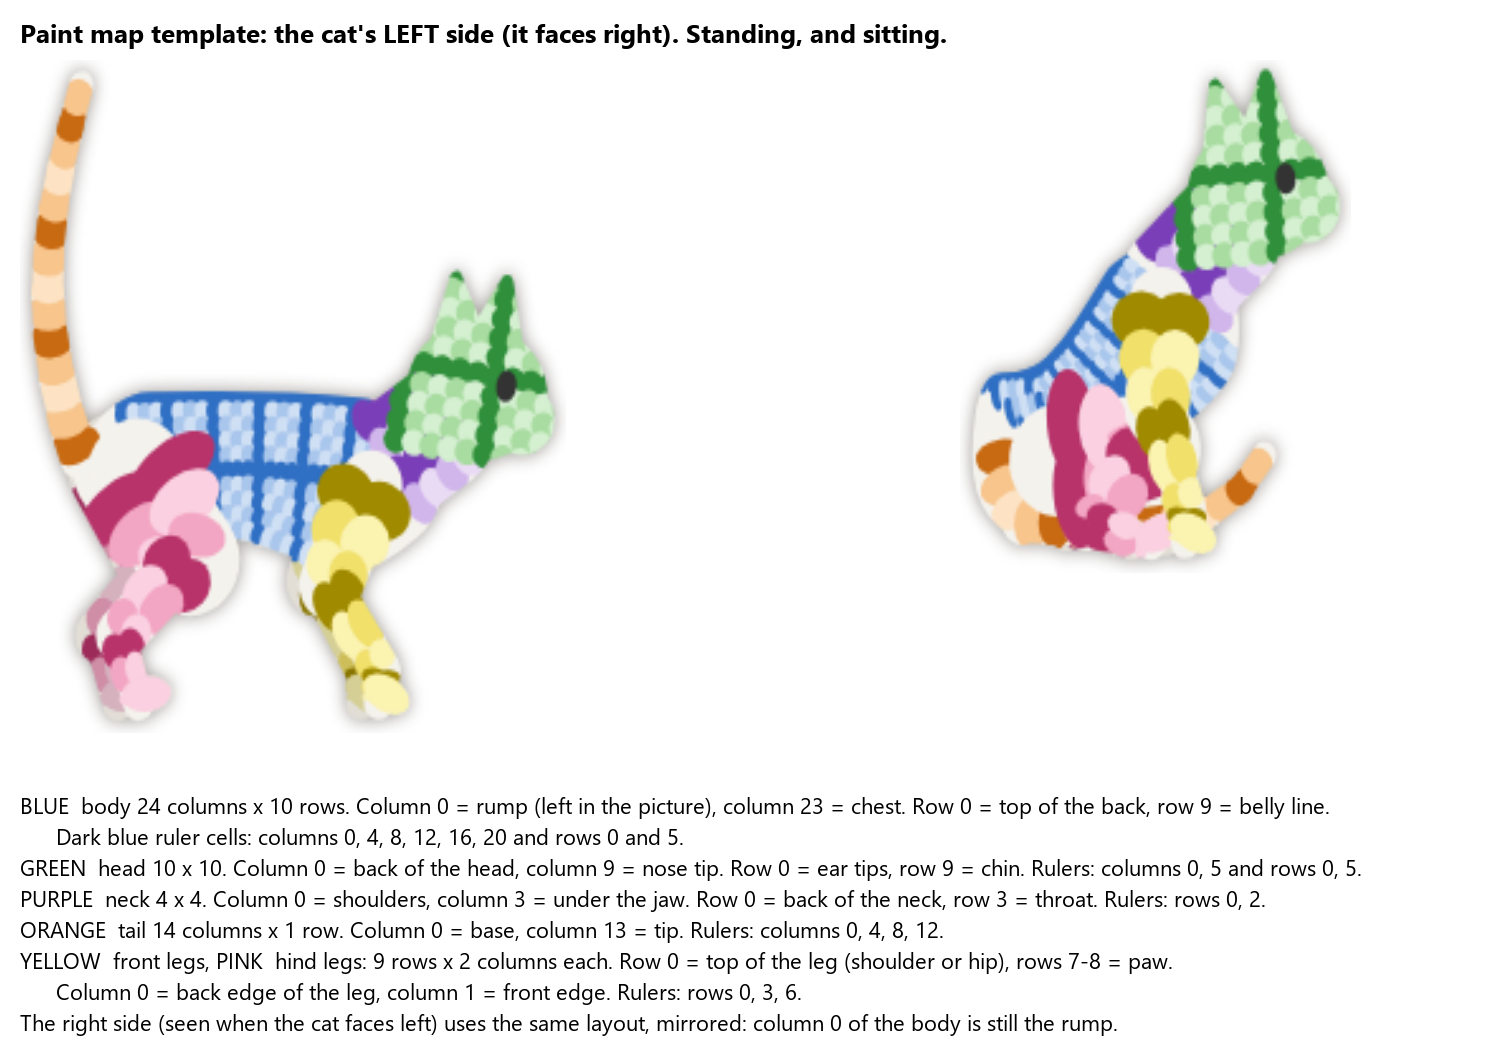
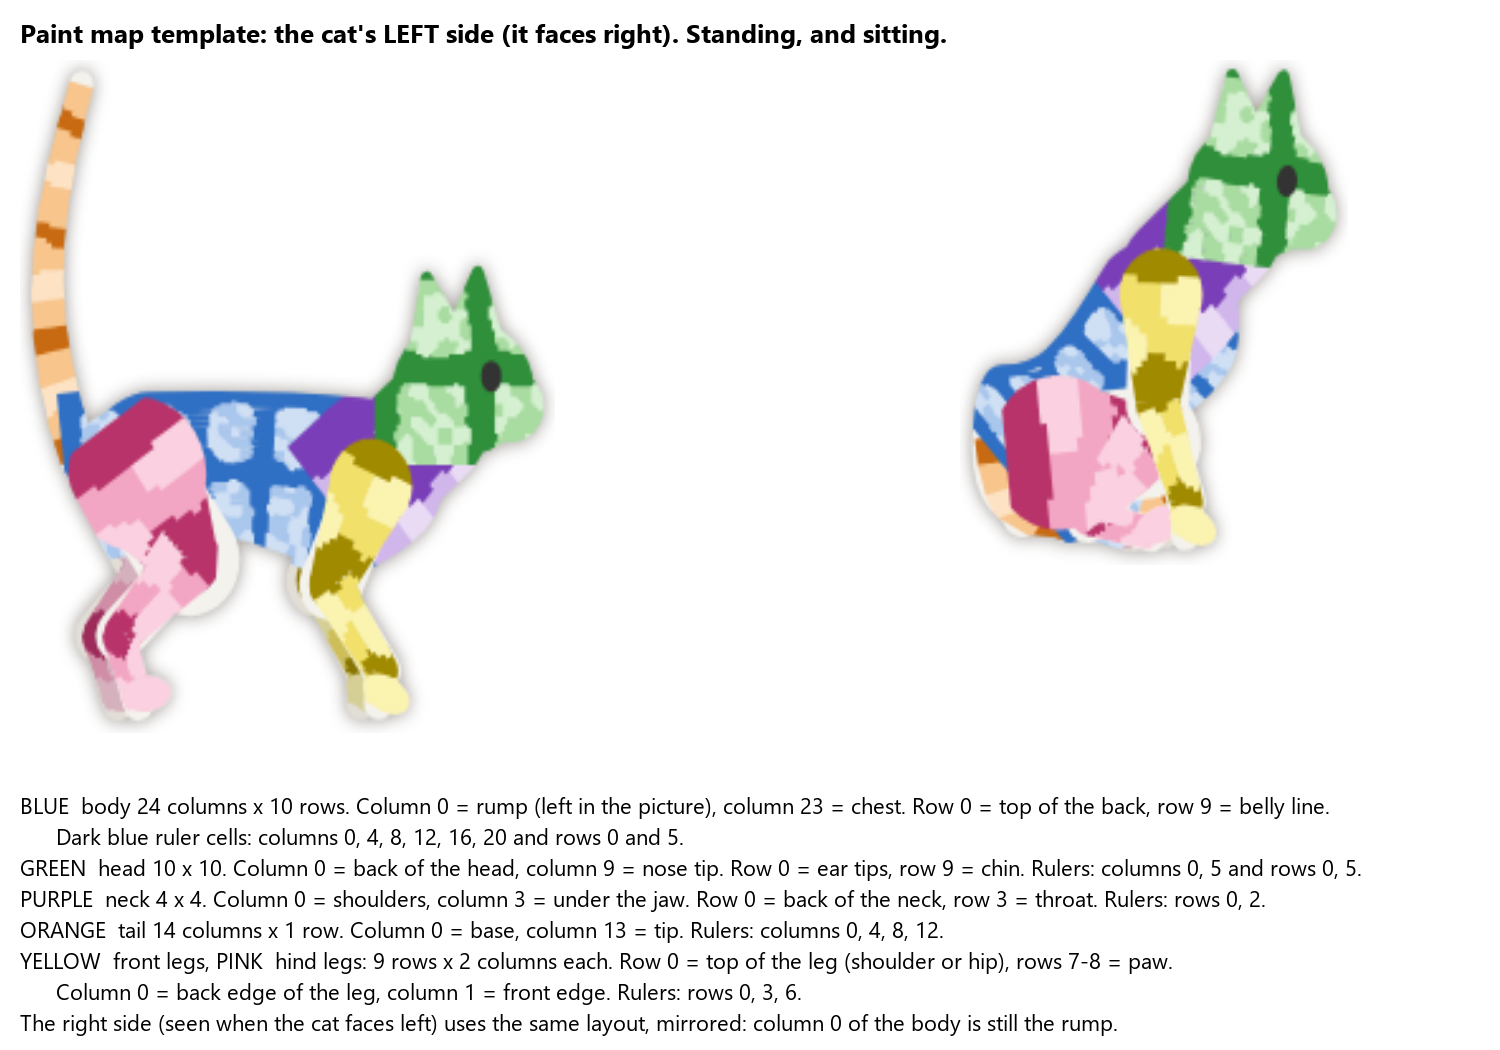
Smooth paint-map patches, full coverage, spec validator
- Paint maps are traced into smooth, slightly irregular patches (blurred
  and thresholded once per cat) instead of per-cell ovals; each color is
  one path, so no seams.
- Grids now cover the round rump and chest ends, the whole neck, and the
  tops of the legs; leg paint is clipped to the leg outline.
- Markings list is optional.
- preview_cat.py prints PROBLEM lines for anything the extension would
  ignore; maker and checker instructions updated from test rounds.

diff --git a/page-cat/content/cat.js b/page-cat/content/cat.js
@@ -118,13 +118,68 @@
       if (gr) legs[n] = gr;
     }
     if (!L && !Object.keys(legs).length) return null;
-    return { L: L || {}, R: R || {}, legs };
+    const runsOf = side => Object.fromEntries(Object.entries(side || {}).map(([k, gr]) => [k, smoothRuns(gr)]));
+    return {
+      L: runsOf(L), R: L === R ? null : runsOf(R),
+      legs: Object.fromEntries(Object.entries(legs).map(([k, gr]) => [k, { runs: smoothRuns(gr), toe: gr[gr.length - 1].find(Boolean) || null }])),
+    };
+  }
+  // Turn a grid of colors into smooth patches: upsample each color's area, blend the edges, add a little
+  // fixed noise so edges wander like real fur, then give every fine pixel to its strongest color. The
+  // result is a list of horizontal runs in 0-1 grid coordinates, drawn later through the body's shape.
+  function smoothRuns(grid) {
+    const R = grid.length, C = grid[0].length, K = 6, H = R * K, W = C * K;
+    const labels = [null, ...new Set(grid.flat().filter(Boolean))];
+    if (labels.length === 1) return [];
+    const hash = (x, y, s) => { let h = (x * 374761393 + y * 668265263 + s * 2147483647) | 0; h = Math.imul(h ^ (h >>> 13), 1274126177); return ((h ^ (h >>> 16)) >>> 0) / 4294967296; };
+    const noise = (x, y, s) => {  // smooth value noise, about one cell per lump
+      const xi = Math.floor(x), yi = Math.floor(y), fx = x - xi, fy = y - yi, sx = fx * fx * (3 - 2 * fx), sy = fy * fy * (3 - 2 * fy);
+      return lerp(lerp(hash(xi, yi, s), hash(xi + 1, yi, s), sx), lerp(hash(xi, yi + 1, s), hash(xi + 1, yi + 1, s), sx), sy);
+    };
+    // blur each color's area (a gaussian about 0.6 cells wide) so blocks of cells become rounded blobs
+    const sig = 0.6 * K, rad = Math.ceil(sig * 2.5), ker = [];
+    for (let i = -rad; i <= rad; i++) ker.push(Math.exp(-(i * i) / (2 * sig * sig)));
+    const ks = ker.reduce((a, b) => a + b, 0);
+    const fields = labels.map(lab => {
+      const tmp = new Float32Array(W * H), out = new Float32Array(W * H);
+      for (let y = 0; y < H; y++) for (let x = 0; x < W; x++) {
+        let v = 0;
+        for (let i = -rad; i <= rad; i++) { const xx = clamp(x + i, 0, W - 1); v += ker[i + rad] * (grid[Math.floor(y / K)][Math.floor(xx / K)] === lab ? 1 : 0); }
+        tmp[y * W + x] = v / ks;
+      }
+      for (let y = 0; y < H; y++) for (let x = 0; x < W; x++) {
+        let v = 0;
+        for (let i = -rad; i <= rad; i++) v += ker[i + rad] * tmp[clamp(y + i, 0, H - 1) * W + x];
+        out[y * W + x] = v / ks;
+      }
+      return out;
+    });
+    const runs = [];
+    for (let y = 0; y < H; y++) {
+      let cur = null, start = 0;
+      for (let x = 0; x <= W; x++) {
+        let best = cur;
+        if (x < W) {
+          let bv = -1;
+          for (let li = 0; li < labels.length; li++) {
+            const v = fields[li][y * W + x] + (noise(x / K * 1.4, y / K * 1.4, li + 1) - 0.5) * 0.3;
+            if (v > bv) { bv = v; best = labels[li]; }
+          }
+        }
+        if (x === W || best !== cur) {
+          if (cur) runs.push({ col: cur, u0: start / W, u1: x / W, v0: y / H, v1: (y + 1) / H });
+          cur = x < W ? best : null; start = x;
+        }
+      }
+    }
+    return runs;
   }
   // Specs come from storage, so check everything and drop anything that doesn't fit.
   function cleanSpec(x) {
     // accept 3-digit colors (fa0) by expanding them, so a short color can't break a whole coat
     const fix = c => typeof c === 'string' && /^[0-9a-f]{3}$/i.test(c) ? c.replace(/./g, d => d + d) : c;
-    if (x && Array.isArray(x.c)) x = { ...x, c: x.c.map(fix), m: Array.isArray(x.m) ? x.m.map(k => Array.isArray(k) ? k.map(fix) : k) : x.m };
+    // markings are optional: a cat can be all paint map
+    if (x && Array.isArray(x.c)) x = { ...x, c: x.c.map(fix), m: Array.isArray(x.m) ? x.m.map(k => Array.isArray(k) ? k.map(fix) : k) : [] };
     if (!x || typeof x !== 'object' || x.v !== 1 || !Array.isArray(x.c) || x.c.length !== 5 || !x.c.every(c => typeof c === 'string' && HEX.test(c))) return null;
     if (!Array.isArray(x.m) || x.m.length > 60) return null;
     const m = [];
@@ -1433,82 +1488,94 @@
       drawEll(lerp(a.x, b.x, f) - ty / l * half * q.side, lerp(a.y, b.y, f) + tx / l * half * q.side, q.r * s * 0.7, q.r * s * 0.7 * q.asp, Math.atan2(ty, tx) + q.rot, col);
     }
   }
-  // Paint-map cells are drawn as slightly oversized soft ovals, so neighbouring cells merge into patches
-  // with natural, uneven edges.
-  const CELL = 0.68;
-  function paintCell(x, y, du, dv, col) {
-    const a = Math.hypot(du.x, du.y), b = Math.hypot(dv.x, dv.y);
-    if (a < 0.05 || b < 0.05) return;
-    drawEll(x, y, a * CELL, b * CELL, Math.atan2(du.y, du.x), col);
+  // Draw paint runs through a region's shape: pos(u, v) maps 0-1 grid coordinates onto the cat.
+  // Long runs are split so they bend with the body; runs overlap a hair so no seams show.
+  function paintRuns(runs, pos, dark) {
+    // one path per color, so runs of the same color merge without seams
+    const byCol = new Map();
+    for (const rn of runs) { if (!byCol.has(rn.col)) byCol.set(rn.col, []); byCol.get(rn.col).push(rn); }
+    for (const [c, list] of byCol) {
+      g.fillStyle = dark ? farOf(c) : c; g.beginPath();
+      for (const rn of list) {
+        const dv = (rn.v1 - rn.v0) * 0.35, du = 0.004, v0 = rn.v0 - dv, v1 = rn.v1 + dv;
+        const n = Math.max(1, Math.ceil((rn.u1 - rn.u0) * 8)), top = [], bot = [];
+        for (let k = 0; k <= n; k++) { const u = lerp(rn.u0 - du, rn.u1 + du, k / n); top.push(pos(u, v0)); bot.push(pos(u, v1)); }
+        g.moveTo(top[0].x, top[0].y);
+        for (const q of top) g.lineTo(q.x, q.y);
+        for (let k = bot.length - 1; k >= 0; k--) g.lineTo(bot[k].x, bot[k].y);
+        g.closePath();
+      }
+      g.fill('nonzero');
+    }
   }
-  function paintSide() { return cat.fa >= 0 ? 'L' : 'R'; }
+  function paintSide(pm) { return cat.fa >= 0 || !pm.R ? pm.L : pm.R; }
   function paintLeg(Lg, far, pm) {
     // near legs belong to the side we see: facing right shows the left side
-    const side = paintSide(), near = side === 'L' ? 'l' : 'r', farS = side === 'L' ? 'r' : 'l';
-    const grid = pm.legs[(Lg.front ? 'f' : 'h') + (far ? farS : near)];
-    if (!grid) return;
-    const w = legWidths(Lg), rows = grid.length, cols = grid[0].length;
-    const segPt = t => {
-      const seg = t < 0 ? 0 : t < 1 ? 1 : 2, u = clamp(t - seg + 1, 0, 1);
+    const left = cat.fa >= 0, name = (Lg.front ? 'f' : 'h') + ((far ? !left : left) ? 'l' : 'r');
+    const leg = pm.legs[name];
+    if (!leg) return;
+    let w = legWidths(Lg); const fwd = cat.fa >= 0 ? -1 : 1;
+    const pos = (u, v) => {
+      // starts above the hip/shoulder joint so the leg's round top is covered too
+      const t = -1.55 + v * 3.6, seg = t < 0 ? 0 : t < 1 ? 1 : 2, f = clamp(t - seg + 1, -0.6, 1.05);
       const A = [Lg.A, Lg.K, Lg.D][seg], B = [Lg.K, Lg.D, Lg.P][seg];
-      const dx = B.x - A.x, dy = B.y - A.y, l = Math.hypot(dx, dy) || 1;
-      return { x: lerp(A.x, B.x, u), y: lerp(A.y, B.y, u), nx: -dy / l, ny: dx / l, half: lerp(w[seg], w[seg + 1], u) * 0.5 };
+      const dx = B.x - A.x, dy = B.y - A.y, l = Math.hypot(dx, dy) || 1, half = lerp(w[seg], w[seg + 1], clamp(f, 0, 1)) * 0.5 * 1.2;
+      const side = (u - 0.5) * 2 * fwd;
+      return { x: lerp(A.x, B.x, f) - dy / l * half * side, y: lerp(A.y, B.y, f) + dx / l * half * side };
     };
-    // which way across the leg is "toward the head" depends on the direction the cat faces
-    const fwd = cat.fa >= 0 ? -1 : 1;
-    for (let r = 0; r < rows; r++) for (let c = 0; c < cols; c++) {
-      let col = grid[r][c];
-      if (!col) continue;
-      if (far) col = farOf(col);
-      const t = -1 + (r + 0.5) / rows * 3.05, side = cols === 1 ? 0 : (c === 0 ? -0.5 : 0.5) * fwd;
-      const p = segPt(t), p2 = segPt(Math.min(2.05, t + 3.05 / rows));
-      const x = p.x + p.nx * p.half * side, y = p.y + p.ny * p.half * side;
-      // cells span the whole row length and their share of the leg's width, so a painted leg is solid
-      const along = { x: (p2.x - p.x) * 1.15, y: (p2.y - p.y) * 1.15 };
-      const across = { x: p.nx * p.half * 2.3 / cols, y: p.ny * p.half * 2.3 / cols };
-      paintCell(x, y, along, across, col);
+    // keep the paint inside the leg's own outline (round joints plus the segments between them)
+    g.save();
+    g.beginPath();
+    const pts = [Lg.A, Lg.K, Lg.D, Lg.P];
+    w = w.map(x => x * 1.12 + 1);  // a touch wider than the drawn leg, so no coat-colored rim is left
+    for (let i = 0; i < 4; i++) { g.moveTo(pts[i].x + w[i] / 2, pts[i].y); g.arc(pts[i].x, pts[i].y, w[i] / 2, 0, Math.PI * 2); }
+    for (let i = 0; i < 3; i++) {
+      const a = pts[i], b = pts[i + 1], dx = b.x - a.x, dy = b.y - a.y, l = Math.hypot(dx, dy) || 1, nx = -dy / l, ny = dx / l;
+      let q = [
+        { x: a.x + nx * w[i] / 2, y: a.y + ny * w[i] / 2 }, { x: b.x + nx * w[i + 1] / 2, y: b.y + ny * w[i + 1] / 2 },
+        { x: b.x - nx * w[i + 1] / 2, y: b.y - ny * w[i + 1] / 2 }, { x: a.x - nx * w[i] / 2, y: a.y - ny * w[i] / 2 },
+      ];
+      // wind every piece the same way as the circles, so overlaps add up instead of cancelling
+      const area = q.reduce((sum, p, k) => sum + p.x * q[(k + 1) % 4].y - q[(k + 1) % 4].x * p.y, 0);
+      if (area < 0) q = q.reverse();
+      g.moveTo(q[0].x, q[0].y); for (let k = 1; k < 4; k++) g.lineTo(q[k].x, q[k].y); g.closePath();
     }
-    if (grid[rows - 1].some(Boolean)) {
-      const toe = grid[rows - 1].find(Boolean);
-      drawPaw(Lg, far ? farOf(toe) : toe);
-    }
+    g.clip('nonzero');
+    paintRuns(leg.runs, pos, far);
+    g.restore();
+    if (leg.toe) drawPaw(Lg, far ? farOf(leg.toe) : leg.toe);
   }
   function paintBody(r, pm) {
-    const s = r.s, sd = pm[paintSide()];
+    const s = r.s, sd = paintSide(pm);
     const F = [0, 1, 2, 3, 4].map(i => spineFrame(r, i));
-    const bodyPos = (i, v) => {
-      const i0 = Math.min(3, Math.max(0, Math.floor(i))), f = clamp(i - i0, 0, 1), A = F[i0], B = F[i0 + 1];
-      const off = v * (v >= 0 ? lerp(r.up[i0], r.up[i0 + 1], f) : lerp(r.dn[i0], r.dn[i0 + 1], f));
-      return { x: lerp(A.p.x, B.p.x, f) + lerp(A.n.x, B.n.x, f) * off, y: lerp(A.p.y, B.p.y, f) + lerp(A.n.y, B.n.y, f) * off };
+    // body: u from rump to chest, v from back to belly
+    const bodyPos = (u, v) => {
+      const i = -0.85 + u * 5.7, vv = 1.15 - v * 2.3;  // reaches over the rounded rump and chest ends
+      const i0 = clamp(Math.floor(i), 0, 3), f = i - i0, A = F[i0], B = F[i0 + 1];
+      const fc = clamp(f, 0, 1), off = vv * (vv >= 0 ? lerp(r.up[i0], r.up[i0 + 1], fc) : lerp(r.dn[i0], r.dn[i0 + 1], fc));
+      return { x: lerp(A.p.x, B.p.x, f) + lerp(A.n.x, B.n.x, fc) * off, y: lerp(A.p.y, B.p.y, f) + lerp(A.n.y, B.n.y, fc) * off };
     };
-    const grid2 = (grid, pos, du0, dv0) => {
-      const rows = grid.length, cols = grid[0].length;
-      for (let rr = 0; rr < rows; rr++) for (let c = 0; c < cols; c++) {
-        const col = grid[rr][c];
-        if (!col) continue;
-        const u = (c + 0.5) / cols, v = (rr + 0.5) / rows;
-        const p = pos(u, v), pu = pos(u + 0.5 / cols, v), pv = pos(u, v + 0.5 / rows);
-        paintCell(p.x, p.y, { x: (pu.x - p.x) * 2, y: (pu.y - p.y) * 2 }, { x: (pv.x - p.x) * 2, y: (pv.y - p.y) * 2 }, col);
-      }
-    };
-    if (sd.tail) grid2(sd.tail, (u, v) => {
+    const sg = r.fa >= 0 ? 1 : -1;
+    if (sd.tail) paintRuns(sd.tail, (u, v) => {
       const ti = clamp(u * (TAIL_N - 1), 0, TAIL_N - 1.001), k = Math.floor(ti), f = ti - k;
       const a = tail[k], b = tail[Math.min(TAIL_N - 1, k + 1)], z = tail[Math.max(0, k - 1)];
       const tx = b.x - z.x, ty = b.y - z.y, l = Math.hypot(tx, ty) || 1;
-      const half = lerp(0.08, 0.048, ti / (TAIL_N - 1)) * s * 0.5, side = (v - 0.5) * 2 * (r.fa >= 0 ? 1 : -1);
+      const half = lerp(0.08, 0.048, ti / (TAIL_N - 1)) * s * 0.6, side = (v - 0.5) * 2 * sg;
       return { x: lerp(a.x, b.x, f) - ty / l * half * side, y: lerp(a.y, b.y, f) + tx / l * half * side };
     });
-    if (sd.body) grid2(sd.body, (u, v) => bodyPos(u * 4, 1.12 - v * 2.2));
+    if (sd.body) paintRuns(sd.body, bodyPos);
     if (sd.neck) {
       const gn = 1 + (settings.girth - 1) * 1.3;
-      const ax = r.chest.x, ay = r.chest.y - 0.02 * s, bx = lerp(r.chest.x, r.head.x, 0.75), by = lerp(r.chest.y, r.head.y, 0.75);
-      const dx = bx - ax, dy = by - ay, l = Math.hypot(dx, dy) || 1, sg = r.fa >= 0 ? 1 : -1;
-      grid2(sd.neck, (u, v) => {
-        const half = lerp(0.2, 0.17, u) * s * gn * 0.5, side = (v - 0.5) * 2 * sg;
-        return { x: lerp(ax, bx, u) - dy / l * half * side, y: lerp(ay, by, u) + dx / l * half * side };
+      // the neck is drawn as a thick stroke from the chest to 60% of the way to the head, with round ends;
+      // the grid starts behind the chest end and reaches into the head, so the whole stroke is covered
+      const cx = r.chest.x, cy = r.chest.y - 0.02 * s, ex = lerp(r.chest.x, r.head.x, 0.6), ey = lerp(r.chest.y, r.head.y, 0.6);
+      const dx = ex - cx, dy = ey - cy, l = Math.hypot(dx, dy) || 1, back = 0.1 * s * gn / l;
+      paintRuns(sd.neck, (u, v) => {
+        const k = lerp(-back, 1.25, u), half = lerp(0.2, 0.17, clamp(k, 0, 1)) * s * gn * 0.62, side = (v - 0.5) * 2 * sg;
+        return { x: cx + dx * k - dy / l * half * side, y: cy + dy * k + dx / l * half * side };
       });
     }
-    if (sd.head) grid2(sd.head, (u, v) => headPt(r, -0.17 + u * 0.37, -0.23 + v * 0.36));
+    if (sd.head) paintRuns(sd.head, (u, v) => headPt(r, -0.18 + u * 0.39, -0.24 + v * 0.38));
   }
   function legPattern(Lg, pal, far) {
     const pat = settings.pattern, sp = specFor();

diff --git a/page-cat/tools/preview_cat.py b/page-cat/tools/preview_cat.py
@@ -47,9 +47,47 @@ def render(spec_json, pose, facing, out, profile):
     return tile
 
 
+HEX = set("0123456789abcdefABCDEF")
+LIMITS = {"body": (40, 20), "neck": (10, 10), "head": (20, 20), "tail": (24, 3)}
+
+
+def problems(spec):
+    """Everything the extension would silently ignore or misdraw, so the maker can fix it."""
+    out = []
+    ok_hex = lambda c: isinstance(c, str) and len(c) in (3, 6) and set(c) <= HEX
+    if spec.get("v") != 1: out.append('"v" must be 1')
+    c = spec.get("c")
+    if not (isinstance(c, list) and len(c) == 5 and all(ok_hex(x) for x in c)): out.append('"c" must be 5 hex colors')
+    p = spec.get("p")
+    if p is not None:
+        keys = p.get("k") or {}
+        for ch, col in keys.items():
+            if len(ch) != 1 or ch == "." or not ok_hex(col): out.append(f'paint key {ch!r}: must be one letter with a hex color')
+        def grid(where, rows, maxw, maxh):
+            if isinstance(rows, str): rows = [rows]
+            if not isinstance(rows, list) or not rows: out.append(f"{where}: must be a list of strings"); return
+            lens = {len(r) for r in rows}
+            if len(lens) != 1: out.append(f"{where}: rows have different lengths {sorted(lens)} - the whole grid is ignored")
+            if max(lens) > maxw or len(rows) > maxh: out.append(f"{where}: too big (max {maxw} x {maxh})")
+            bad = {ch for r in rows for ch in r if ch != "." and ch not in keys}
+            if bad: out.append(f"{where}: letters not in the paint key: {''.join(sorted(bad))}")
+        for side in ("L", "R"):
+            for part, (mw, mh) in LIMITS.items():
+                if isinstance(p.get(side), dict) and part in p[side]: grid(f"{side}.{part}", p[side][part], mw, mh)
+        for n, rows in (p.get("legs") or {}).items():
+            if n not in ("fl", "fr", "hl", "hr"): out.append(f"legs.{n}: use fl, fr, hl, hr")
+            else: grid(f"legs.{n}", rows, 2, 16)
+    for m in spec.get("m", []):
+        if not (isinstance(m, list) and m and isinstance(m[0], str)): out.append(f"marking {m!r}: must start with its kind")
+    return out
+
+
 def main():
     spec_path = Path(sys.argv[1])
-    spec_json = json.dumps(json.loads(spec_path.read_text()), separators=(",", ":"))
+    spec = json.loads(spec_path.read_text())
+    for msg in problems(spec):
+        print("PROBLEM:", msg)
+    spec_json = json.dumps(spec, separators=(",", ":"))
     photos = []
     for p in sys.argv[2:]:
         ph = ImageOps.exif_transpose(Image.open(p)).convert("RGBA")  # phone photos are often stored sideways

diff --git a/page-cat/tools/catmaker/MAKER.md b/page-cat/tools/catmaker/MAKER.md
@@ -15,6 +15,14 @@ You turn photos of a real cat into a cat spec (JSON) for Page Cat, a browser ext
 5. **Stripes:** for tabbies add `["tabby"]` (body, legs, tail stripes and forehead M in the stripe color) or `["rings"]` (tail only). Put stripes after the paint so they show on top, unless only some colored areas are striped; then paint the stripes into the map instead.
 6. **Render and compare.** Render with every photo. Go region by region against your word map: head, neck, back, flanks, belly, chest, rump, each leg, tail; colors, patch positions, sizes, and edges. Fix what's off, render again. Up to 4 rounds. Stop when every region matches.
 
+## Common mistakes (checked for, so avoid them)
+- **Too bright.** Real orange fur is muted (`c98a4e`, `b8763d`), not traffic-cone orange. Tortoiseshell "orange" is often brown-tan (`a0683a`). Compare your swatch against the photo at the same spot.
+- **Blocks instead of fur.** Paint patches with organic, irregular outlines that follow the photo, not rectangles. For fine tortoiseshell brindling (colors mixed in small streaks all over), add `["mottle", amount, size, seed, where, ..., color]` layers after the paint map, with small sizes (0.02-0.03), rather than painting dots by hand.
+- **Face details missed.** Check the blaze down the nose, a split face (different color each side), muzzle, chin, eye rims, and the color of each ear separately. Ears are often a different color from the forehead.
+- **Bib and chest.** A white bib shows on the side view at the neck (`neck` rows 2-3) and the front end of the body (`body` last 3-4 columns, lower rows). Paint all of it.
+- **Eyes must show.** If the head around the eye is dark, choose the real iris color (they are rarely black); never make the eye the same color as the fur around it.
+- **Thighs and shoulders.** The top 3 rows of each leg sit over the lower body. Paint them to continue the body pattern around them.
+
 ## Spec format
 ```json
 {
@@ -39,7 +47,11 @@ You turn photos of a real cat into a cat spec (JSON) for Page Cat, a browser ext
   - `tail` 14 columns x 1 row (or 2 rows: top, underside). Column 0 = base, last = tip.
   - legs `fl` front-left, `fr` front-right, `hl` hind-left, `hr` hind-right: 9 rows x 2 columns. Row 0 = top of the leg (shoulder or hip), rows 7-8 = paw. Column 0 = back edge, column 1 = front edge.
 - `L` is the cat's left side; `R` its right side. Both use the same layout (column 0 of the body is always the rump). On the left side, the near legs are `fl` and `hl`; on the right side, `fr` and `hr`.
-- Markings `m` (optional): `["tabby"]`, `["rings", firstTailSegment, width]`, and the older shape markings if useful. Keep `m` short; the paint map does the work.
+- Markings `m` (optional), drawn after the paint map unless you put `["paint"]` in the list to choose when it's drawn:
+  - `["tabby"]`: stripes on body, legs and tail, and the forehead M, in the stripe color.
+  - `["rings", firstTailSegment, width]`: tail rings only, e.g. `["rings", 4, 0.026]`.
+  - `["mottle", amount, size, seed, where, bodyFrom, bodyTo, lowest, highest, "hex"]`: many small blotches of one color, for fine tortoiseshell brindling and speckling. amount 0-1 (0.3 sparse, 0.9 dense), size 0.02 fine to 0.06 coarse, seed any number (use a different one per layer), where = add 1 body, 2 head, 4 tail, 8 legs (15 all). The last four limit the body area: bodyFrom/bodyTo 0 (rump) to 4 (chest), lowest/highest -1 (belly) to 1.2 (back); defaults 0, 4, -1, 1.2. Example, fine tan brindle all over: `["mottle", 0.6, 0.025, 3, 15, "9a6a3e"]`. Example, orange speckles on the shoulders only: `["mottle", 0.5, 0.025, 7, 1, 2.5, 4, -0.2, 1.2, "c98a4e"]`.
+- The render tool prints `PROBLEM:` lines for anything the extension would ignore (rows of different lengths, unknown letters). Fix every one.
 
 ## Output
 Write the spec to the path you were given, render it, and finish with:

diff --git a/page-cat/tools/catmaker/CHECKER.md b/page-cat/tools/catmaker/CHECKER.md
@@ -2,7 +2,7 @@
 
 You are the second pair of eyes. A customer paid for a cartoon version of their cat; another model made it. You did not make it, so be strict. Your job is to find every place where the cartoon does not match the real cat.
 
-You get the cat photos and a preview image (photos on the left, then the cartoon's left side, right side, sitting, napping). The cartoon is small and simplified, so judge colors, where patches and white areas are, their rough size and shape, stripes, and eye color. Don't judge pose, fur texture, or exact edge wobble.
+You get the cat photos and a preview image (photos on the left, then the cartoon's left side, right side, sitting, napping). The cartoon is small and simplified, so judge colors, where patches and white areas are, their rough size and shape, stripes, and eye color. Don't judge pose, fur texture, or exact edge wobble. The far-side legs and far ear are drawn a little darker on purpose (they're behind the body); that's not a problem. The pink dot at the nose tip is the nose.
 
 ## How to check
 Go region by region: head (ears, forehead, around the eyes, cheeks, muzzle, nose, chin), neck/throat, back, flanks, chest, belly, rump, each leg top to toe, tail base to tip, eye color. For each region, compare the photo(s) with the matching side of the cartoon (the cat's left side faces the camera when its head points right).
